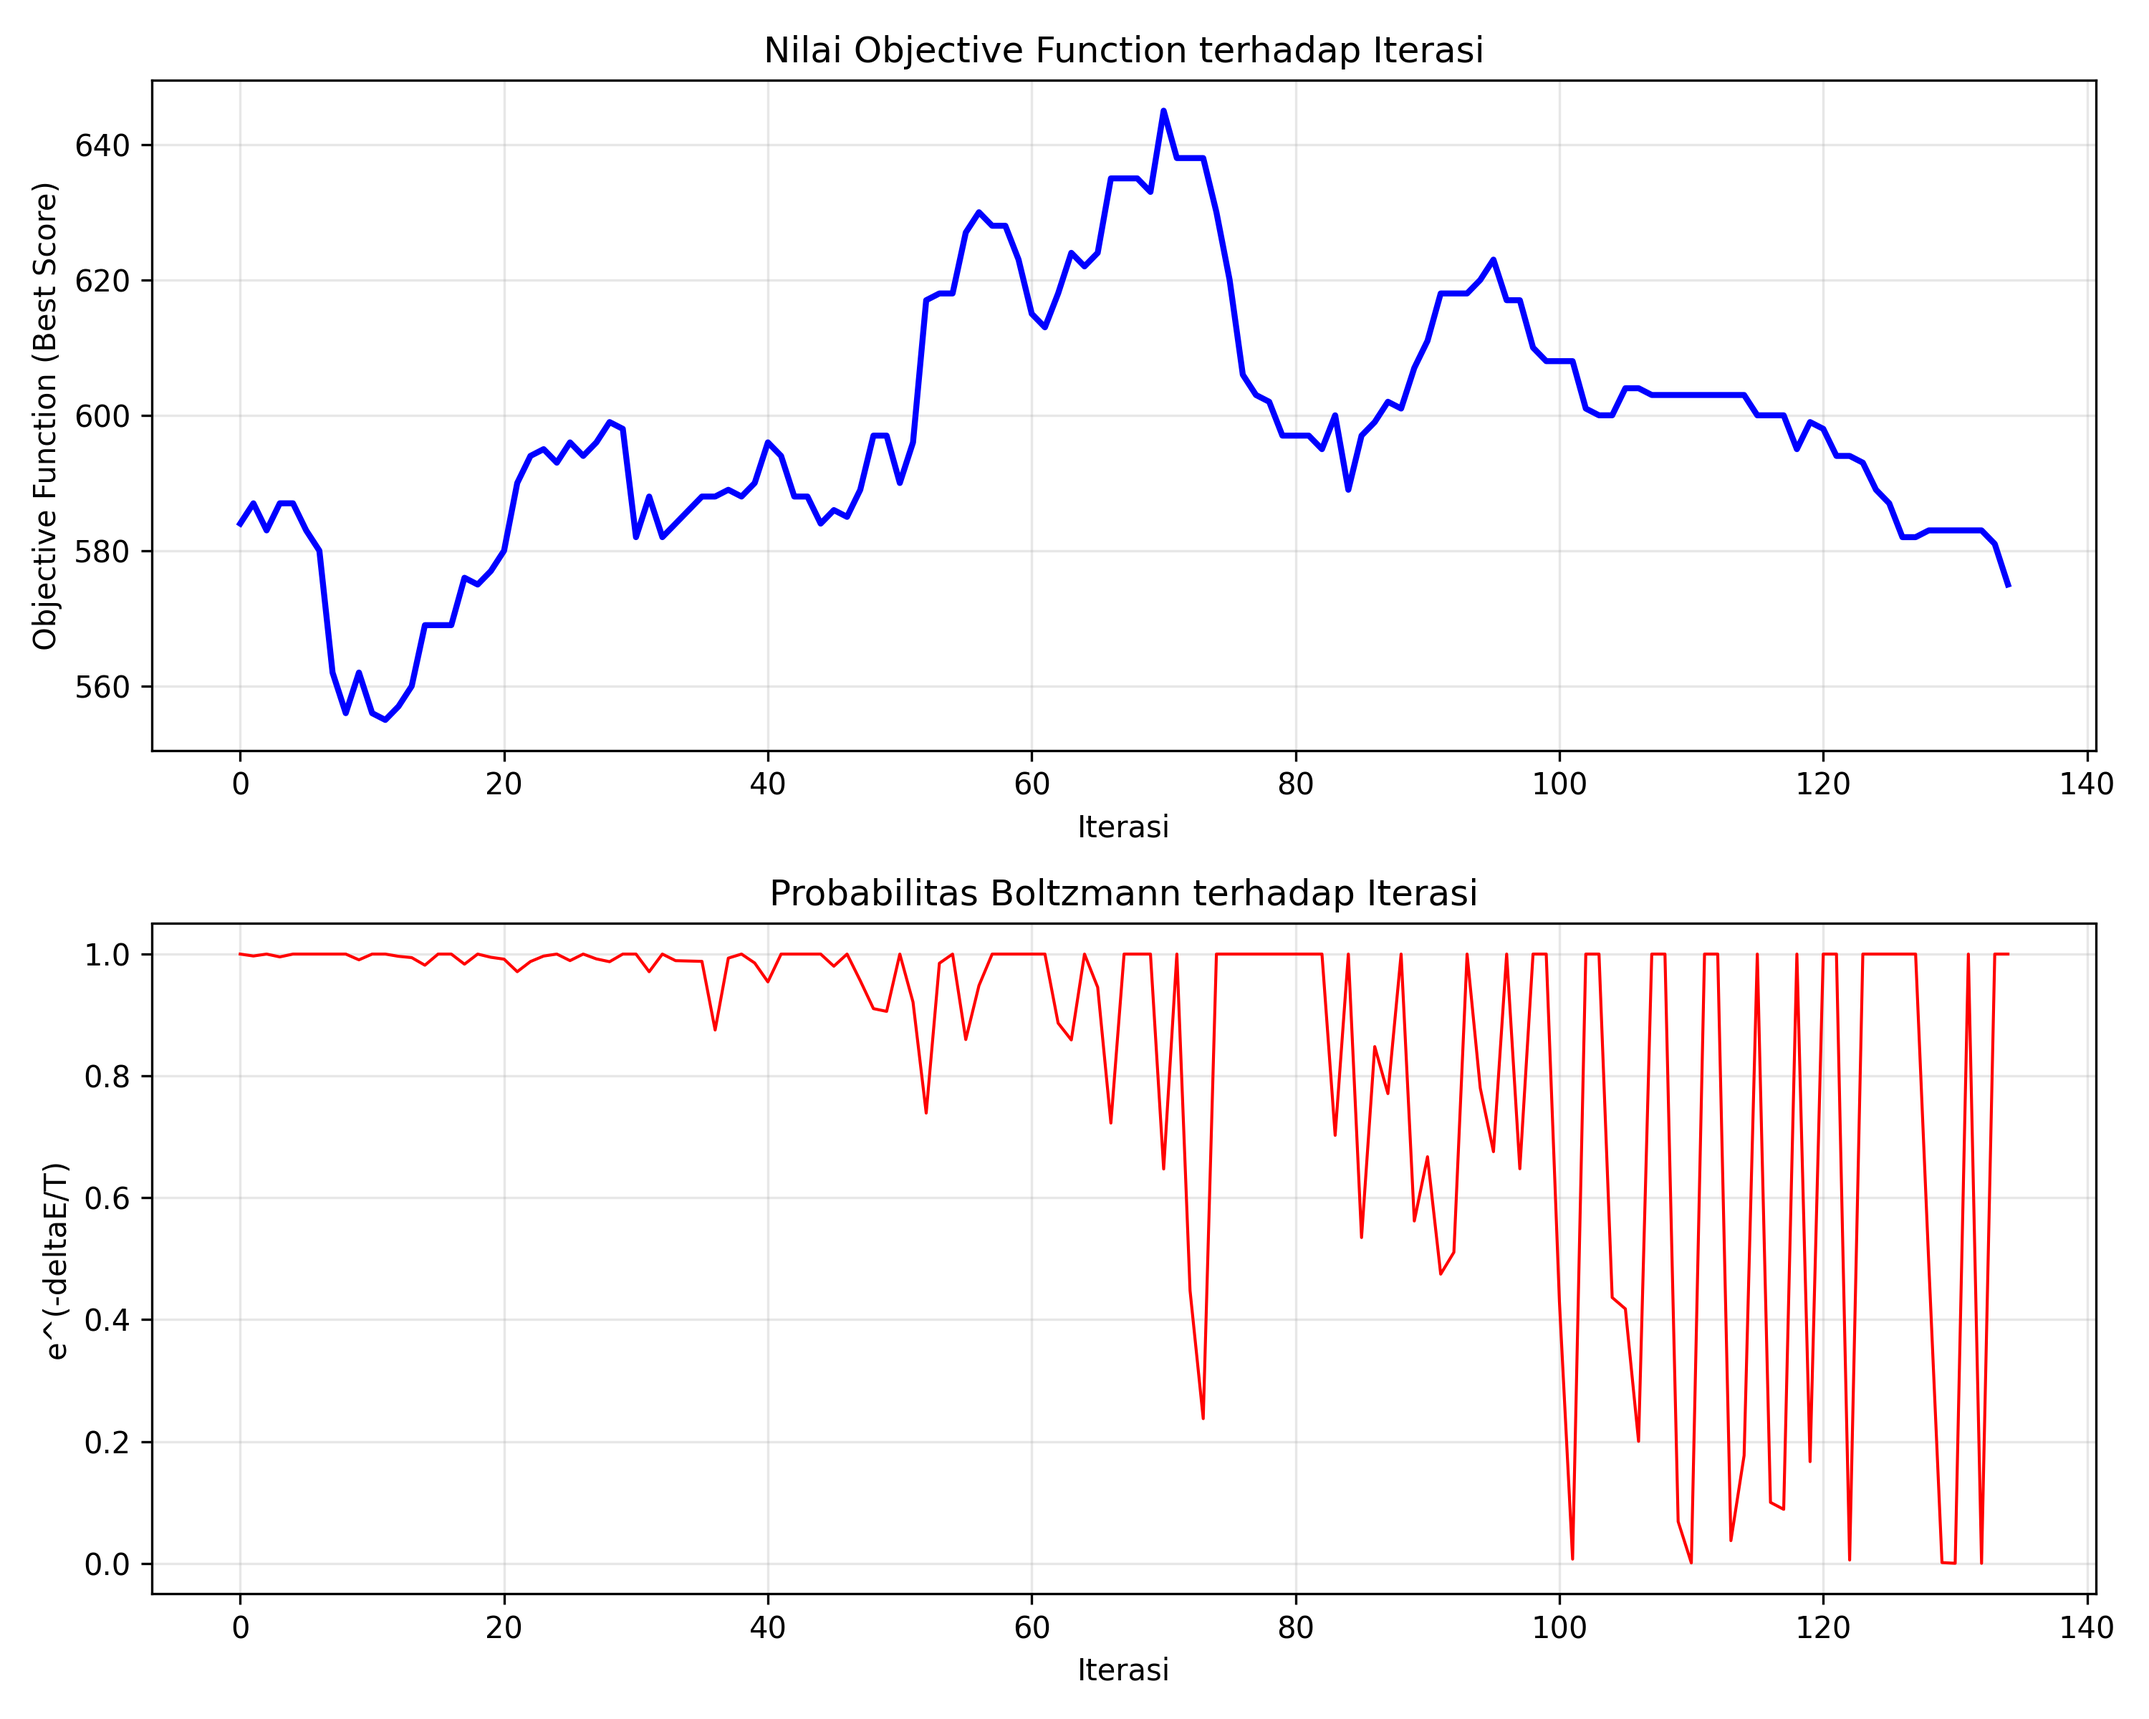
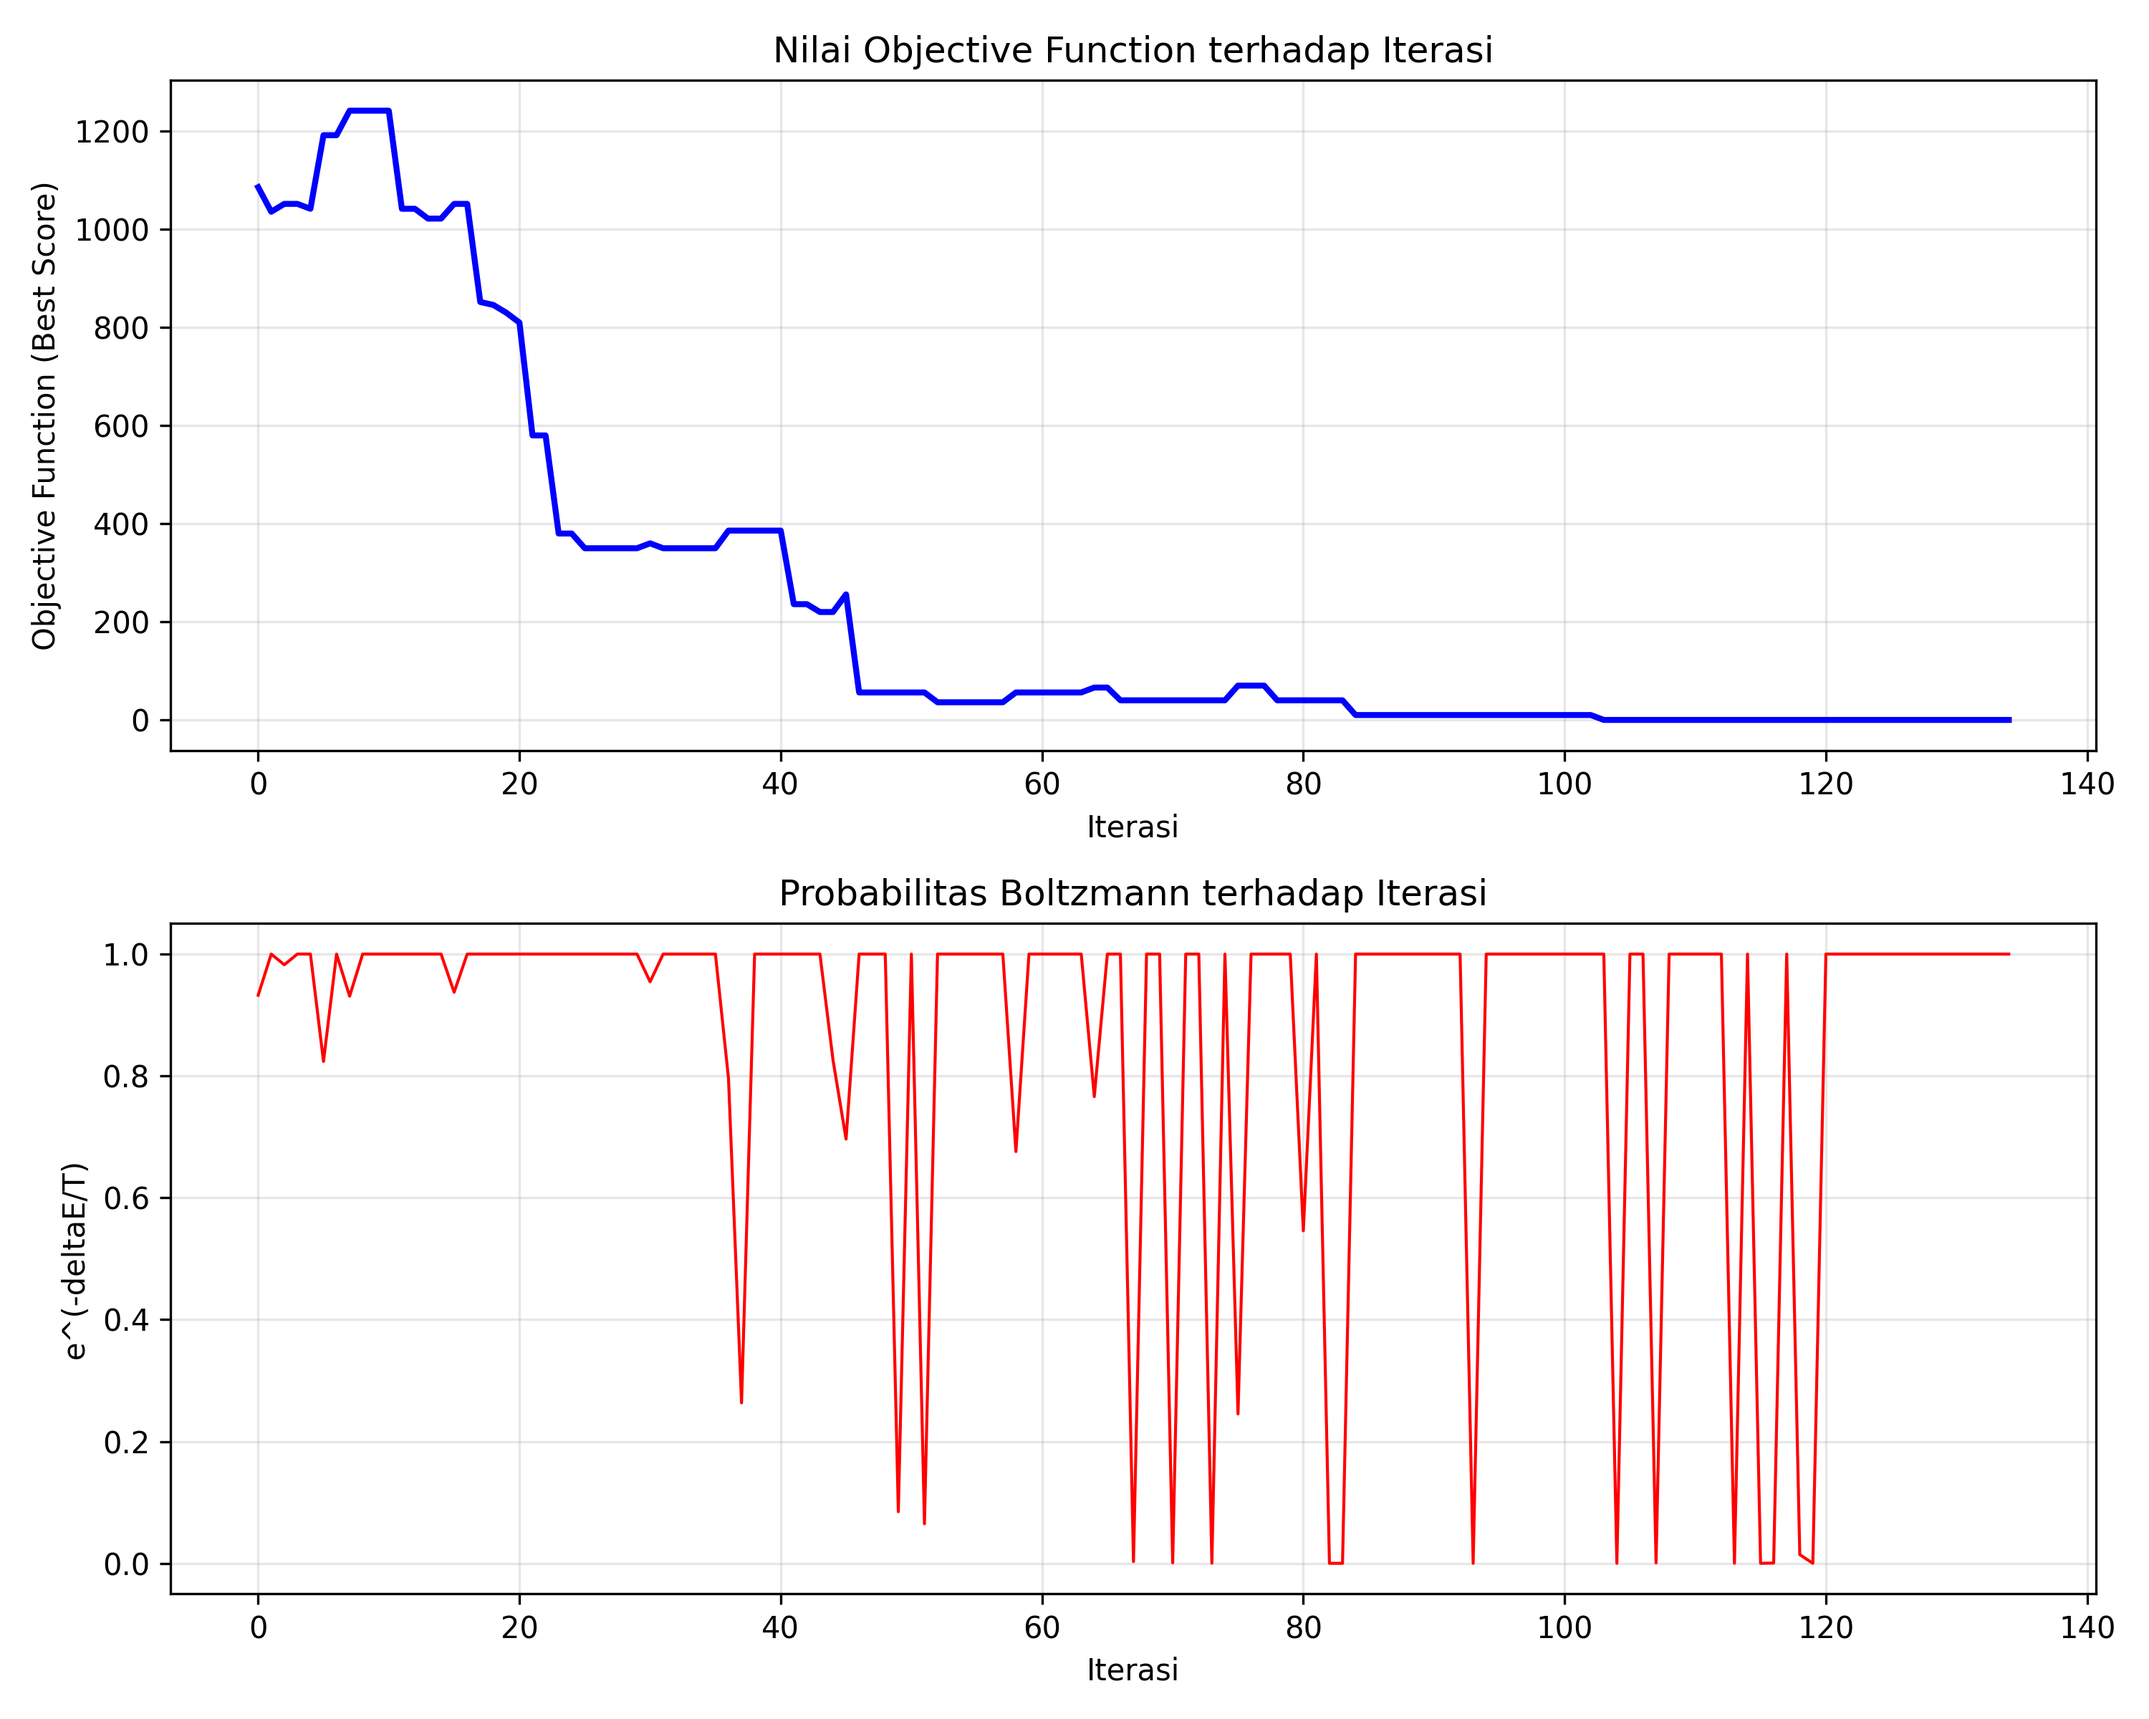
optimize sa and fix main

diff --git a/src/main.py b/src/main.py
@@ -1,5 +1,5 @@
 import json
-from utils.plotter import plot_scores, plot_scores_random_restart, plot_sa_results, plot_ga, confirm_folder
+from utils.plotter import plot_scores, plot_scores_random_restart, plot_sa_results, plot_ga
 from utils.state import init_state, generate_slots
 from utils.objective import evaluate
 from utils.visualize_timetable import visualize_state
@@ -65,92 +65,99 @@ if __name__ == "__main__":
 
     # ========================== EXECUTE ==========================
     if n == 1:
-        print("\nStarting Hill Climbing...")
+        print("\nStarting Hill Climbing (Steepest)...")
         start_time = time.time()
-        best_state, best_score, scores = hill_climbing_steepest(state_awal, data, slots, max_iter=1000)
+        final_state, final_score, scores = hill_climbing_steepest(state_awal, data, slots, max_iter=1000)
         duration = time.time() - start_time
-        algo_name = "Hill Climbing"
+        algo_name = "Hill Climbing (Steepest)"
+
+        print(f"[INFO] Skor Akhir: {final_score:.3f}")
+        print(f"[INFO] Jumlah Iterasi: {len(scores)}")
+        plot_scores(scores, f"{algo_name} - Nilai Fungsi Objektif per Iterasi")
 
     elif n == 2:
         print("\nStarting Hill Climbing with Sideways Move...")
         start_time = time.time()
-        best_state, best_score, scores = hill_climbing_sideways(state_awal, data, slots, max_iter=1000, max_side=500)
+        final_state, final_score, scores = hill_climbing_sideways(state_awal, data, slots, max_iter=1000, max_side=500)
         duration = time.time() - start_time
         algo_name = "Hill Climbing (Sideways Move)"
+
+        print(f"[INFO] Skor Akhir: {final_score:.3f}")
+        print(f"[INFO] Jumlah Iterasi: {len(scores)}")
+
+        plot_scores(scores, f"{algo_name} - Nilai Fungsi Objektif per Iterasi")
 
     elif n == 3:
         print("\nStarting Hill Climbing with Random Restart...")
         start_time = time.time()
-        best_state, best_score, scores = hill_climbing_random_restart(state_awal, data, slots, max_restarts=10, max_iter=1000)
+        final_state, final_score, scores = hill_climbing_random_restart(state_awal, data, slots, max_restarts=10, max_iter=1000)
         duration = time.time() - start_time
         algo_name = "Hill Climbing (Random Restart)"
+
+        print(f"\n[INFO] Total Restart: {len(scores)}")
+        print(f"[INFO] Skor Akhir: {final_score:.3f}")
+
+        plot_scores_random_restart(scores)
 
     elif n == 4:
         print("\nStarting Stochastic Hill Climbing...")
         start_time = time.time()
-        best_state, best_score, scores = hill_climbing_stochastic(state_awal, data, slots, max_iter=1000, max_attempts=50)
+        final_state, final_score, scores = hill_climbing_stochastic(state_awal, data, slots, max_iter=1000, max_attempts=50)
         duration = time.time() - start_time
         algo_name = "Stochastic Hill Climbing"
+
+        print(f"\n[INFO] Skor Akhir (Final): {final_score:.3f}")
+        print(f"[INFO] Jumlah Iterasi: {len(scores)}")
+        plot_scores(scores, f"{algo_name} - Nilai Fungsi Objektif per Iterasi")
 
     elif n == 5:
         print("\nStarting Simulated Annealing...")
         start_time = time.time()
-        best_state, best_score, info = simulated_annealing(
-            state_awal, data, slots, T0=1000, T_min=1, alpha=0.95,
-            target_score=0.0001, patience=500
+        info = simulated_annealing(
+            state_awal, data, slots,
+            T0=1000, T_min=1, alpha=0.95,
+            patience=500, max_iter=10000
         )
+
         duration = time.time() - start_time
         algo_name = "Simulated Annealing"
+
+        final_state = info['final_state']
+        final_score = info['final_score']
+
+        print(f"\n[INFO] Skor Awal: {info['initial_score']:.3f}")
+        print(f"[INFO] Skor Akhir (Final): {final_score:.3f}")
+        print(f"[INFO] Jumlah Iterasi: {info['iterations']}")
+        print(f"[INFO] Frekuensi Stuck di Local Optima: {info['stuck_events']}")
+        print("[INFO] Plot E(T) telah ditampilkan.")
+
+        plot_sa_results(info['score_history'], info['boltzmann_history'])
 
     elif n == 6:
         pop_size = 30
         max_iter = 300
         print("\nStarting Genetic Algorithm...")
         start_time = time.time()
-        best_state, best_score, history = genetic_algorithm(data, slots, pop_size, max_iter)
+        final_state, best_score, history = genetic_algorithm(data, slots, pop_size, max_iter)
         duration = time.time() - start_time
         algo_name = "Genetic Algorithm"
+
+        print(f"[INFO] Jumlah populasi: {pop_size}")
+        print(f"[INFO] Banyak iterasi: {max_iter}")
+        print(f"[INFO] Skor Akhir: {best_score:.3f}")
+        print("[INFO] Plot E(T) telah ditampilkan.")
+        plot_ga(history, max_iter)
 
     else:
         print("[ERROR] Pilihan tidak valid.")
         exit()
 
-    # ========================== RESULTS ==========================
-    # print(f"\n[RESULT] BEST STATE AFTER {algo_name}:")
-    # df_best = pd.DataFrame(list(best_state.items()), columns=["key", "value"])
-    # print(df_best)
+    # ========================== COMMON POST-PROCESS ==========================
 
-    # HC
-    if (n == 1 or n == 2 or n == 4):
-        print(f"[INFO] Skor Akhir (Best): {best_score:.3f}")
-        print("[INFO] Plot skor telah ditampilkan.")
-        plot_scores(scores, f"{algo_name} - Nilai Fungsi Objektif per Iterasi")
+    print(f"\n[TIME] Waktu Eksekusi: {duration:.3f} detik")
 
-    # RR HC
-    if n == 3:
-        print(f"\n[INFO] Total Restart: {len(scores)}")
-        print(f"[INFO] Skor Akhir (Best): {best_score:.3f}")
-        print("[INFO] Plot skor telah ditampilkan.")
-        plot_scores_random_restart(scores)
-
-    # SA
-    if n == 5:
-        print(f"\n[INFO] Skor Awal: {info['initial_score']:.3f}")
-        print(f"[INFO] Skor Akhir (Best): {best_score:.3f}")
-        print("[INFO] Plot E(T) telah ditampilkan.")
-        plot_sa_results(info['score_history'], info['boltzmann_history'])
-
-    # GA
-    if n == 6:
-        print(f"[INFO] Jumlah populasi: {pop_size}")
-        print(f"[INFO] Banyak iterasi: {max_iter}")
-        print(f"[INFO] Skor Akhir (Best): {best_score:.3f}")
-        print("[INFO] Plot E(T) telah ditampilkan.")
-        plot_ga(history, max_iter)
-
-    # Visualisasi state awal dan best
+    # Visualisasi hasil jadwal
     visualize_state(state_awal, ruangan, save_path="input/jadwal-awal.png", show=False)
-    visualize_state(state_awal, ruangan, save_path="output/jadwal-best.png", show=False)
+    visualize_state(final_state, ruangan, save_path="output/jadwal-final.png", show=False)
 
-    print(f"\n[TIME] Waktu eksekusi: {duration:.3f} detik")
-    print(f"[DONE] Visualisasi jadwal (state) awal dan akhir untuk algoritma {algo_name} telah ditampilkan.")
+    print(f"[DONE] Visualisasi jadwal awal dan akhir untuk algoritma {algo_name} selesai.")

diff --git a/src/algorithm/simulated_annealing.py b/src/algorithm/simulated_annealing.py
@@ -28,19 +28,17 @@ def boltzmann(deltaE, T) -> float:
 
 
 # ==================== Simulated Annealing ====================
-def simulated_annealing(state, data, slots, T0=1000, T_min=1, alpha=0.95, target_score = 0.0001, patience = 500):
+def simulated_annealing(state, data, slots, T0=1000, T_min=1, alpha=0.95, patience = 500, max_iter=10000):
 
     current = copy.deepcopy(state)
     current_score = evaluate(current, data)
-    best_state = copy.deepcopy(current)
-    best_score = current_score
 
 
     # Save history (iter, score, E(T), T)
     score_history = []         
     boltzmann_history = []
     stuck_count = 0
-    max_stuck = 0
+    stuck_events = 0
     no_improvement_count = 0
 
     t = 0
@@ -48,7 +46,8 @@ def simulated_annealing(state, data, slots, T0=1000, T_min=1, alpha=0.95, target
 
     print(f"[SA] Initial Score: {current_score:.4f}")
 
-    while T > T_min and best_score > target_score:
+    while T > T_min and t < max_iter:
+        # note: ada tambahan heuristik target_score atau threshold score (0.0001)  
         neighbor = getNeighbors(current, slots, data["kelas_mata_kuliah"])
         neighbor_score = evaluate(neighbor, data)
         
@@ -67,27 +66,21 @@ def simulated_annealing(state, data, slots, T0=1000, T_min=1, alpha=0.95, target
         if accept:
             current = neighbor
             current_score = neighbor_score
-
-        # Track best solution
-        if current_score < best_score:
-            best_state = copy.deepcopy(current)
-            best_score = current_score
-            stuck_count = 0
+            
             no_improvement_count = 0
+
+            if stuck_count > 0:
+                stuck_events += 1
+            stuck_count = 0
         else:
             stuck_count += 1
             no_improvement_count += 1
         
-        max_stuck = max(max_stuck, stuck_count)
 
         # Save history
         score_history.append(current_score)
         boltzmann_history.append(boltz_prob)
 
-        if best_score <= target_score:
-            print(f"[SA] Target score reached at iteration {t}")
-            break
-        
         if no_improvement_count >= patience:
             print(f"[SA] No improvement for {patience} iterations")
             break
@@ -97,7 +90,7 @@ def simulated_annealing(state, data, slots, T0=1000, T_min=1, alpha=0.95, target
         T = schedule(t, T0, alpha)
 
         if t % 100 == 0:
-            print(f"[SA] Iter {t} | T={T:.2f} | Score={current_score:.4f} | Best={best_score:.4f}")
+            print(f"[Periodic 100 Report] Iter {t} | T={T:.3f} | Score={current_score:.3f}")
 
 
         if T <= T_min:
@@ -106,14 +99,15 @@ def simulated_annealing(state, data, slots, T0=1000, T_min=1, alpha=0.95, target
 
 
     # Final report
-    print(f"[SA] Final Score: {best_score:.4f}")
-    print(f"[SA] Iterations: {t}")
-    print(f"[SA] Max Stuck: {max_stuck}")
+    # print(f"[SA] Final Score: {current_score:.3f}")
+    # print(f"[SA] Iterations: {t}, Max Iterations: {max_iter}")
 
-    return best_state, best_score, {
+    return {
+        'final_state': current,
+        'final_score': current_score,
         'score_history': score_history,
         'boltzmann_history': boltzmann_history,
         'initial_score': score_history[0] if score_history else current_score,
-        'max_stuck': max_stuck,
+        'stuck_events': stuck_events,
         'iterations': t,
     }
